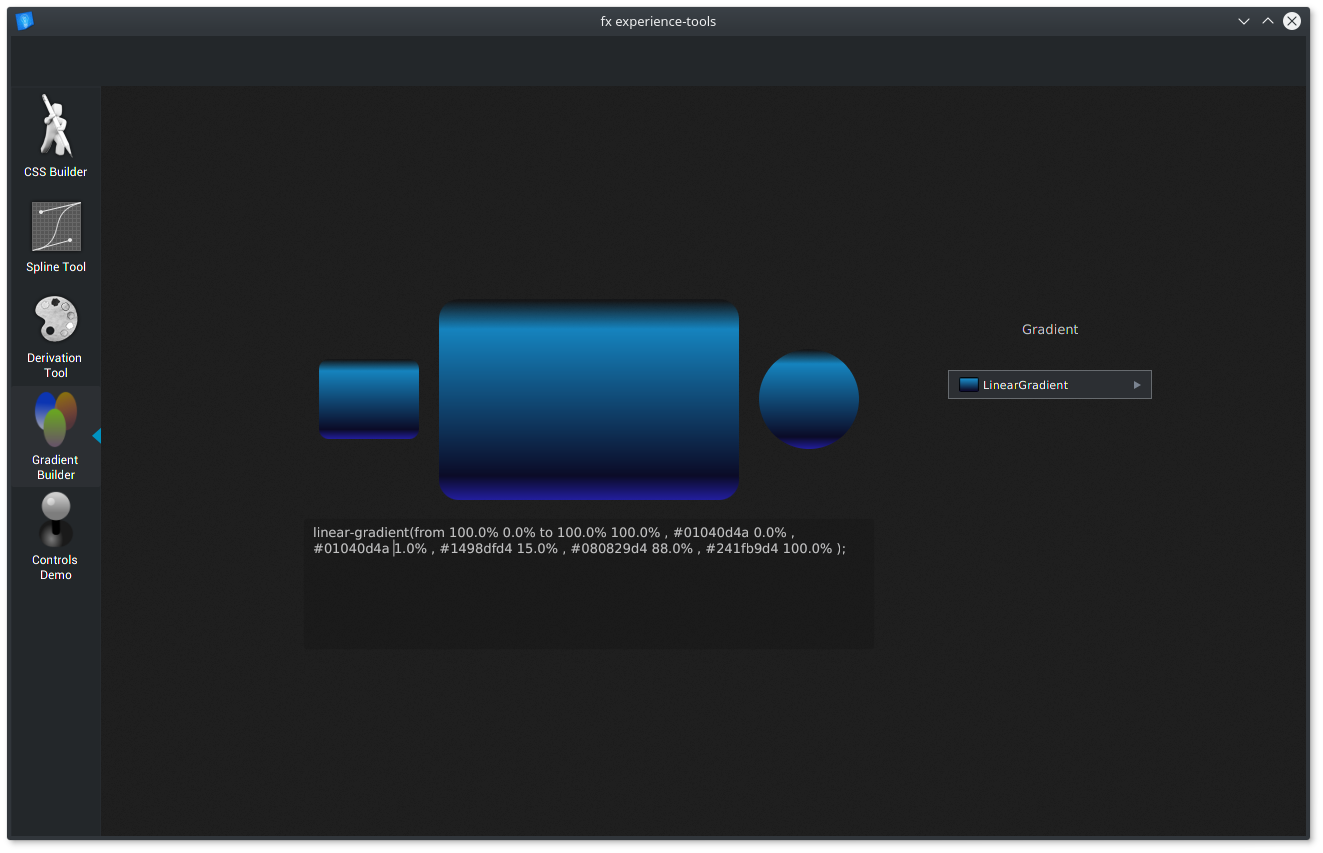
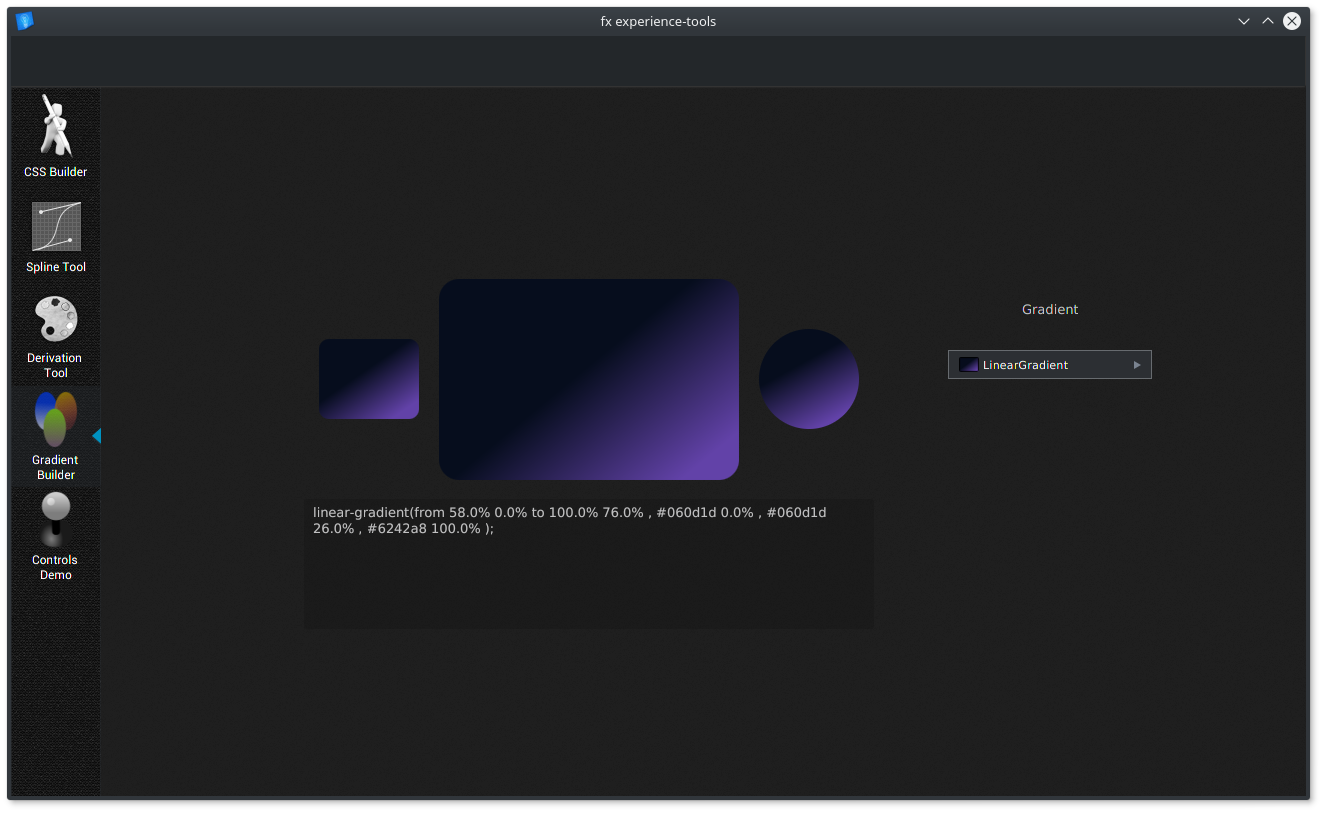
update ui theme

diff --git a/FXExperienceTools/src/main/resources/styles/main_dark.css b/FXExperienceTools/src/main/resources/styles/main_dark.css
@@ -18,6 +18,7 @@ different terms and without source code for the larger work.
     -fe-shadow-highlight-color: #282828;
     -fe-outer-border: #343434;
     -fe-inner-border: #464646;
+    -fx-background-color: #111;
 
     -fe-control-inner-background: #23272a;
     -font-family: "Noto Sans";
@@ -36,15 +37,9 @@ different terms and without source code for the larger work.
 
     -fe-text-box-border: #676B6F;
 }
-@font-face {
-    src: url('/fonts/Roboto-Light.ttf');
-
-}
 
 .nav-box {
-   /*-fx-background-image: url("../images/binding_dark.png");*/
-    -fx-background-color: -dark-header;
-    -fx-border-width: 0;
+   -fx-background-image: url("../images/binding_dark.png");
     /*-fx-effect: innershadow( three-pass-box , rgba(32,32, 32,0.5) ,60, 0.0 , 0 , 0 );*/
 /*    -fx-background-color:  -fe-dark-inner-background;*/
     /*-fx-background-insets: 1, -5, 1, -5;*/
@@ -53,6 +48,7 @@ different terms and without source code for the larger work.
 #Main-Panel {
     -fx-background-image: url("../images/bg.png")
 }
+
 /*******************************************************************************
  * Alert Notification		                                                   *
  ******************************************************************************/
@@ -63,63 +59,16 @@ different terms and without source code for the larger work.
     -fx-text-fill: black;
     -fx-font: 1em bold;
 }
-/*******************************************************************************
- * Menu Bar			                                                           *
- ******************************************************************************/
-.menu {
-
-}
-
-.menu:hover,
-.menu-button .menu:hover {
-    -fx-text-fill: white;
-}
 
 .main-menu {
     /*    -fx-background-color:  derive(rgb(147, 147, 147), -60%);*/
-    -fx-background-color: derive(-dark-header, 0%), derive(-dark-header, 25%),  derive(-dark-header, -20%),  -dark-header;
-    /*-fx-background-insets: 0 0 1 0, 0, 1 0 0 0, 1 0 0 0;*/
-    -fx-font-size: 16px;
-    -fx-alignment: center-left;
+    /*-fx-background-color: derive(-dark-header, 0%), derive(-dark-header, 25%),  derive(-dark-header, -20%),  -dark-header;*/
+-fx-background-color: #23272a;
+    -fx-padding: 0.0em 0.666667em 0.0em 0.666667em; /* 0 8 0 8 */
     /*-fx-effect: dropshadow( two-pass-box, -gray-light, 2, 0.0, 0, 1 );*/
-
-    -fx-font-family: "Roboto";
-    /* Nothing more needed for Mac OS X than the following property!
-     * All other definitions kept from caspian, to ensure, that MenuBar
-     * is shown properly on non-mac systems.
-     */
-    -fx-use-system-menu-bar: true;
+    -fx-background-insets: 0 0 0 0, 0 1 0 1;
+    -fx-background-radius: 0, 0;
 }
-
-/*.main-menu .container .menu:openvertically .label .text {*/
-    /*-fx-fill: white;*/
-/*}*/
-
-/*.menu-item:focused,*/
-/*.menu-item:hover {*/
-    /*!*       -fx-background-insets: 1, 1, 1;*!*/
-/*}*/
-
-/*.menu-button .menu {*/
-    /*-fx-text-fill: -text-secondary;*/
-/*}*/
-
-/*.menu-bar .menu .label {*/
-    /*-fx-text-fill: -text-secondary;*/
-/*}*/
-
-/*.main-menu .container .menu:openvertically .label .text {*/
-
-/*}*/
-
-/*.context-menu {*/
-    /*!*-fx-skin: "com.sun.javafx.scene.control.skin.ContextMenuSkin";*!*/
-    /*-fx-background-color: #262626, #262626, #262626, #262626;*/
-    /*!*    -fx-background-insets: 0, 1, 2;*!*/
-
-     /*-fx-padding: 0.666667em 0.083333em 0.666667em 0.083333em;  !* 8 1 8 1 *!*/
-    /*!*-fx-padding: 0.333333em 0.083333em 0.666667em 0.083333em; !* 4 1 8 1 *!*/
-/*}*/
 
 /*******************************************************************************
  * Preview panel background		                                               *
@@ -161,7 +110,7 @@ different terms and without source code for the larger work.
 }
 
 .menu-toggle-button:hover, .menu-toggle-button:selected{
-    -fx-background-color: -fe-body-background;
+    -fx-background-color: rgba(35,39,42, .5);
 }
 
 

diff --git a/FXExperienceTools/src/main/resources/styles/gradient_panel.css b/FXExperienceTools/src/main/resources/styles/gradient_panel.css
@@ -13,6 +13,7 @@
     -fx-color: #282828;
     -fx-shadow-highlight-color: #323232;
 }
+
 /*******************************************************************************
  * Popup Color Picker MenuButton 			                                   *
  ******************************************************************************/

diff --git a/FXExperienceTools/src/main/java/com/fxexperience/tools/controller/StyleController.java b/FXExperienceTools/src/main/java/com/fxexperience/tools/controller/StyleController.java
@@ -12,12 +12,11 @@ package com.fxexperience.tools.controller;
 import com.fxexperience.javafx.control.fontpicker.FontPickerController;
 import com.fxexperience.javafx.scene.control.popup.ColorPopupEditor;
 import com.fxexperience.javafx.scene.control.textfields.DoubleTextField;
-import com.fxexperience.tools.ui.CSSCodeArea;
+import com.fxexperience.tools.ui.CssEditor;
 import com.fxexperience.tools.util.FileUtil;
 import com.fxexperience.tools.util.Gradient;
 import com.fxexperience.tools.util.StringUtil;
 import javafx.beans.binding.Bindings;
-import javafx.beans.value.ChangeListener;
 import javafx.event.ActionEvent;
 import javafx.fxml.FXML;
 import javafx.fxml.FXMLLoader;
@@ -26,7 +25,6 @@ import javafx.scene.input.Clipboard;
 import javafx.scene.input.DataFormat;
 import javafx.scene.layout.*;
 import javafx.scene.paint.Color;
-import javafx.scene.paint.Paint;
 import javafx.scene.text.Font;
 import javafx.util.Callback;
 import org.fxmisc.flowless.VirtualizedScrollPane;
@@ -63,6 +61,8 @@ public class StyleController extends VBox {
     @FXML private DoubleTextField borderWidthTextField;
     @FXML private DoubleTextField borderRadiusTextField;
 
+    @FXML private Button btnEditor, btnSave, btnCopy;
+
     @FXML private ToggleButton baseTextToggle;
     @FXML private ToggleButton backgroundTextToggle;
     @FXML private ToggleButton fieldTextToggle;
@@ -74,7 +74,7 @@ public class StyleController extends VBox {
 
     private Font font = Font.getDefault();
 
-    private final CSSCodeArea codeArea = new CSSCodeArea();
+    private final CssEditor codeArea = new CssEditor();
     private final FontPickerController fontPickerController = new FontPickerController();
     private final PreviewController previewController = new PreviewController();
 
@@ -103,9 +103,8 @@ public class StyleController extends VBox {
             Logger.getLogger(StyleController.class.getName()).log(Level.SEVERE, null, ex);
         }
 
+
         textTitlePane.setContent(fontPickerController);
-
-
         editorPane.getChildren().add(new VirtualizedScrollPane<>(codeArea));
         previewPane.setCenter(previewController);
 
@@ -474,10 +473,12 @@ public class StyleController extends VBox {
     private void displayEditorPane() {
         if (!editorPane.isVisible()) {
             editorPane.setVisible(true);
+            btnEditor.setText("Controls");
             setCodeAreaText();
         }
         else {
             editorPane.setVisible(false);
+            btnEditor.setText("CSS Editor");
         }
     }
 

diff --git a/FXExperienceTools/src/main/java/com/fxexperience/tools/ui/CssEditor.java b/FXExperienceTools/src/main/java/com/fxexperience/tools/ui/CssEditor.java
@@ -1,5 +1,8 @@
-package com.fxexperience.tools.util.css;
+package com.fxexperience.tools.ui;
 
+import com.fxexperience.tools.controller.StyleController;
+import org.fxmisc.richtext.CodeArea;
+import org.fxmisc.richtext.LineNumberFactory;
 import org.fxmisc.richtext.model.StyleSpans;
 import org.fxmisc.richtext.model.StyleSpansBuilder;
 
@@ -8,17 +11,23 @@ import java.util.Collections;
 import java.util.regex.Matcher;
 import java.util.regex.Pattern;
 
-/**
-*/
-public class CSSHighlight {
 
+public class CssEditor extends CodeArea {
 
-    public static StyleSpans<Collection<String>> computeHighlighting(String text) {
+    public CssEditor() {
+        getStylesheets().add(StyleController.class.getResource("/styles/code_area.css").toExternalForm());
+        setParagraphGraphicFactory(LineNumberFactory.get(this));
+        richChanges()
+                .filter(ch -> !ch.getInserted().equals(ch.getRemoved())) // XXX
+                .subscribe(change -> this.setStyleSpans(0, computeHighlighting(this.getText())));
+    }
+
+    private static StyleSpans<Collection<String>> computeHighlighting(String text) {
         return computeHighlightingRegex(text);
         //return computeHighlightingByRegex(text);
     }
 
- // private static final String KEYWORD_PATTERN = "\\b(" + String.join("|", KEYWORDS) + ")\\b";
+    // private static final String KEYWORD_PATTERN = "\\b(" + String.join("|", KEYWORDS) + ")\\b";
     private static final String SELECTOR_PATTERN = "\\.([^ 0-9,{])+|#([^ 0-9,{])+";
     private static final String PAREN_PATTERN = "\\(|\\)";
     private static final String BRACE_PATTERN = "\\{|\\}";
@@ -29,10 +38,10 @@ public class CSSHighlight {
     private static final String STRING_PATTERN = "\"([^\"\\\\]|\\\\.)*\"";
     //private static final String COMMENT_REGEX = "//[^\n]*" + "|" + "/\\*(.|\\R)*?\\*/";
     private static final String MUTI_COMMENT_REGE = "/\\*+([^*]|(\\*+[^*/]))*\\*+/";
-     private static final String ENTRY_REGE = "-fx-([^: 0-9,;\\n])+";
+    private static final String ENTRY_REGE = "-fx-([^: 0-9,;\\n])+";
 
     private static final Pattern PATTERN = Pattern.compile(
-                      "(?<SELECTOR>" + SELECTOR_PATTERN + ")"
+            "(?<SELECTOR>" + SELECTOR_PATTERN + ")"
                     + "|(?<ENTRY>" + ENTRY_REGE + ")"
                     + "|(?<PAREN>" + PAREN_PATTERN + ")"
                     + "|(?<BRACE>" + BRACE_PATTERN + ")"
